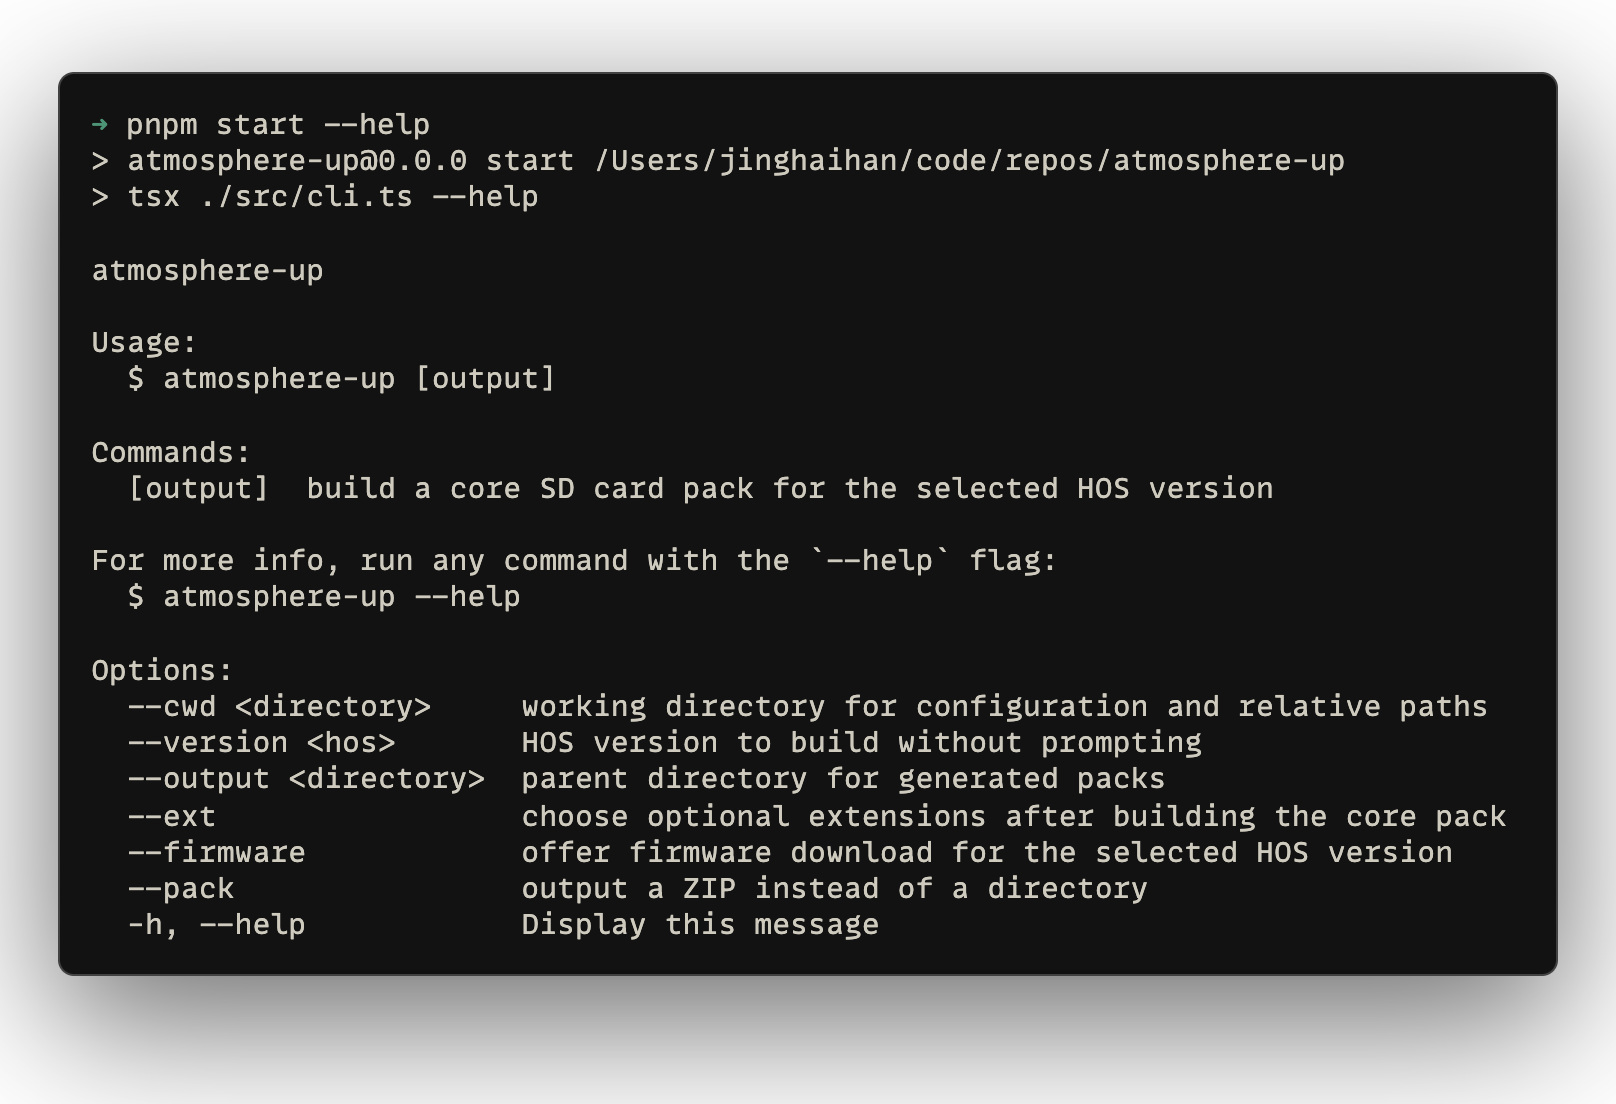
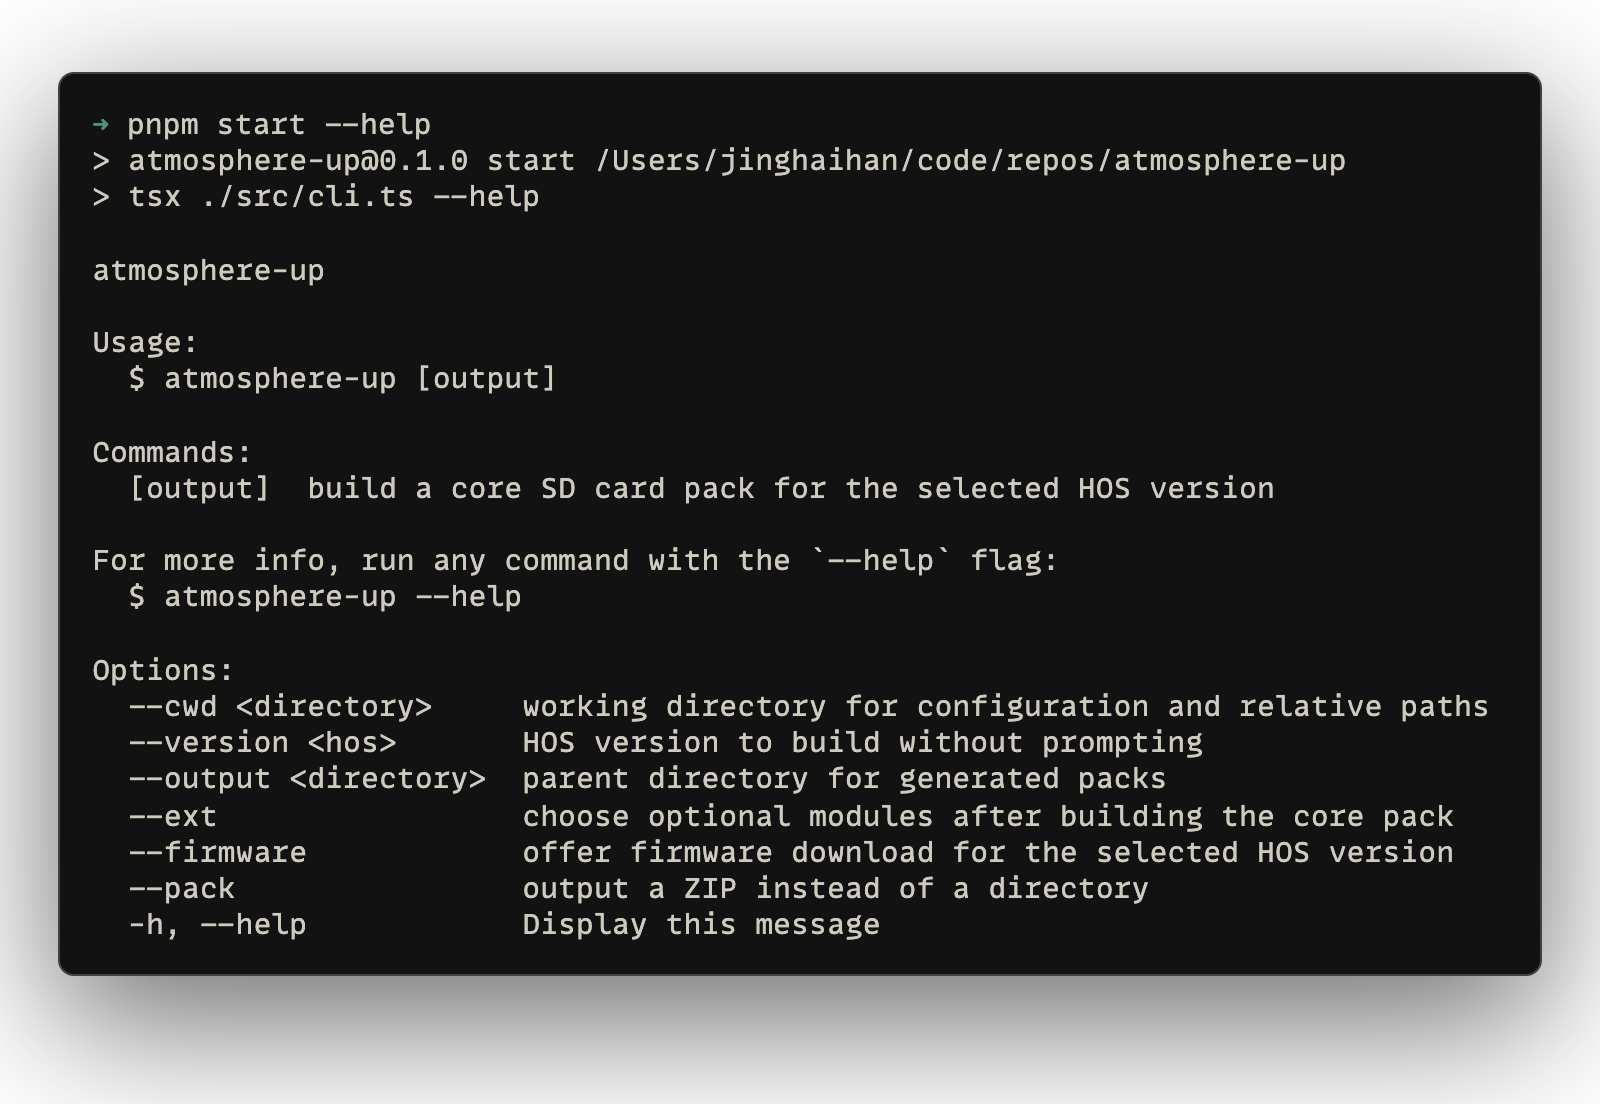
docs: unify core and optional module terminology

diff --git a/src/commands/build.ts b/src/commands/build.ts
@@ -76,7 +76,7 @@ export async function runBuildCommand(options: CommandOptions): Promise<void> {
       pack: config.pack,
       onCoreReady: config.ext
         ? async () => {
-          spinner.stop(c.green('core pack assembled'))
+          spinner.stop(c.green('core modules assembled'))
 
           const selection = await promptExtensions(controller)
 
@@ -93,7 +93,7 @@ export async function runBuildCommand(options: CommandOptions): Promise<void> {
         : undefined,
       onExtensionsReady: config.firmware
         ? async () => {
-          spinner.stop(c.green('components assembled'))
+          spinner.stop(c.green(config.ext ? 'optional modules assembled' : 'core modules assembled'))
 
           const enabled = await promptFirmware(controller, bundle.labels.hos)
 

diff --git a/test/commands/build.test.ts b/test/commands/build.test.ts
@@ -226,7 +226,7 @@ describe('runBuildCommand', () => {
 
     expect(p.confirm).not.toHaveBeenCalled()
     expect(vi.mocked(p.multiselect).mock.calls[0][0]).toMatchObject({
-      message: 'select extension categories',
+      message: 'select optional module categories',
       required: false,
       initialValues: ['save-management', 'file-management', 'cheats'],
       options: [
@@ -246,7 +246,7 @@ describe('runBuildCommand', () => {
     }))).sort((a, b) => a.order - b.order).map(call => call.message)
     expect(messages).toEqual([
       'select HOS version',
-      'select extension categories',
+      'select optional module categories',
       'select save manager',
       'select file manager',
       'select cheat tools',

diff --git a/src/cli.ts b/src/cli.ts
@@ -18,7 +18,7 @@ try {
     .option('--cwd <directory>', 'working directory for configuration and relative paths')
     .option('--version <hos>', 'HOS version to build without prompting')
     .option('--output <directory>', 'parent directory for generated packs')
-    .option('--ext', 'choose optional extensions after building the core pack')
+    .option('--ext', 'choose optional modules after building the core pack')
     .option('--firmware', 'offer firmware download for the selected HOS version')
     .option('--pack', 'output a ZIP instead of a directory')
     .action((output: string | undefined, options: CommandOptions) => {

diff --git a/src/extensions/index.ts b/src/extensions/index.ts
@@ -93,7 +93,7 @@ const extensions = [
 
 export async function promptExtensions(controller: AbortController): Promise<ExtensionSelection> {
   const categories = await p.multiselect({
-    message: 'select extension categories',
+    message: 'select optional module categories',
     options: extensions.map(({ value, label }) => ({ value, label })),
     initialValues: extensions.filter(extension => extension.initialSelected).map(extension => extension.value),
     required: false,

diff --git a/AGENTS.md b/AGENTS.md
@@ -7,7 +7,10 @@ version. Use pnpm and follow the installed dependencies and existing modules.
 
 - Use English for repository content, including prompts, comments, and commits.
 - Start custom prompt messages with lowercase letters. Keep Clack's built-in
-  labels unchanged and preserve component branding in option labels.
+  labels unchanged and preserve module branding in option labels.
+- User-facing copy uses `core modules` for required contents, `optional modules`
+  for selectable additions, `categories` for feature groups, and `pack` for the
+  assembled output.
 - README describes features, sources, and useful defaults. Put maintenance and
   implementation details in this file or the relevant skill.
 
@@ -18,7 +21,7 @@ version. Use pnpm and follow the installed dependencies and existing modules.
 | `src/cli.ts`, `src/config.ts`, `src/types.ts` | CAC options and unconfig configuration |
 | `src/commands/build.ts` | User interaction and build lifecycle |
 | `src/core/` | Bundle catalog, release resolution, installation, and output |
-| `src/extensions/index.ts` | Ordered extension categories, prompts, and resolvers |
+| `src/extensions/index.ts` | Ordered optional module categories, prompts, and resolvers |
 | `src/extensions/*.ts` | One feature category per module; prompts and resolvers return arrays |
 | `src/firmware.ts` | Optional firmware for the exact selected HOS version |
 | `src/download/` | GitHub authentication, releases, and downloads |
@@ -26,7 +29,7 @@ version. Use pnpm and follow the installed dependencies and existing modules.
 | `src/utils.ts` | Reusable or complex pure helpers |
 | `assets/sigpatches/` | Prepared patch ZIPs, HOS/Atmosphere manifest, and provenance |
 | `assets/mission-control/versions.json` | HOS to exact Mission Control release tag |
-| `assets/defaults/` | Files copied into every pack after extracting core components |
+| `assets/defaults/` | Files copied into every pack after extracting core modules |
 
 ## Build behavior to preserve
 
@@ -35,9 +38,9 @@ version. Use pnpm and follow the installed dependencies and existing modules.
   releases. Mission Control uses its HOS mapping. Horizon OC checks its release's
   `ams_ver.txt` against the selected Atmosphere version.
 - Check the destination and confirm replacement before downloads. Assemble core,
-  select and install extensions, optionally download firmware, then write the
+  select and install optional modules, optionally download firmware, then write the
   manifest and finalize directory or ZIP output.
-- Extension categories stay in this order: save management, file management,
+- Optional module categories stay in this order: save management, file management,
   cheats, performance tuning, performance monitoring, controller support,
   streaming, Amiibo. Default categories are save management, file management,
   and cheats. Ask for tools only in selected categories.
@@ -47,7 +50,7 @@ version. Use pnpm and follow the installed dependencies and existing modules.
   start at the SD card root. The repository config sets the parent to `./output`.
 - Use staging and the existing AbortSignal flow. Cancellation removes temporary
   files; preserve an existing output until the replacement has been assembled.
-- Keep shared extension dependencies deduplicated. An enhanced Sys Clk overlay
+- Keep shared optional module dependencies deduplicated. An enhanced Sys Clk overlay
   replaces the original overlay while preserving the required service/manager.
 - Keep overlay memory at 8 MiB and the hotkey at L + D-pad Down. Cheats default
   off without remembered toggles. Other shipped configuration lives in

diff --git a/README.md b/README.md
@@ -18,9 +18,9 @@ RCM, Ovl Sysmodules, sys-patch, and Ultrahand use their latest releases.
 <img src='./help.png' alt="help" />
 </p>
 
-### Core components
+### Core modules
 
-| Component | Source | Includes |
+| Module | Source | Includes |
 | --- | --- | --- |
 | Atmosphere | [Atmosphere-NX/Atmosphere](https://github.com/Atmosphere-NX/Atmosphere) | Atmosphere, fusee, Daybreak, hbmenu, hbloader, and other upstream tools |
 | Hekate | [CTCaer/hekate](https://github.com/CTCaer/hekate) | Bootloader with CFW emuMMC, CFW sysMMC, and stock sysMMC boot entries |
@@ -32,20 +32,20 @@ RCM, Ovl Sysmodules, sys-patch, and Ultrahand use their latest releases.
 | Sigpatches | [Supported versions](./assets/sigpatches/README.md) | Patches for the selected HOS and Atmosphere versions |
 
 Reboot to Payload returns to Hekate. Each pack includes a manifest listing its
-component versions.
+module versions.
 
 Ultrahand opens with **L + D-pad Down**.
 
-### Optional extensions
+### Optional modules
 
-Extensions are enabled by default. Use `--no-ext` to skip extension prompts,
-or `--ext` to enable them.
+Optional module selection is enabled by default. Use `--no-ext` to skip it,
+or `--ext` to enable it.
 
-After assembling the core components, choose extension categories. Save management,
+After assembling the core modules, choose optional module categories. Save management,
 file management, and cheats are selected by default. Only selected categories
 show their tool selection prompts; all categories can be deselected.
 
-| Component | Source | Includes |
+| Module | Source | Includes |
 | --- | --- | --- |
 | JKSV | [J-D-K/JKSV](https://github.com/J-D-K/JKSV) | Save backup and restore; default save manager selection |
 | Checkpoint | [BernardoGiordano/Checkpoint](https://github.com/BernardoGiordano/Checkpoint) | Save backup and restore |
@@ -81,18 +81,18 @@ Horizon OC or Sys Clk Overlay Ultrahand for clock controls in that configuration
 
 Mission Control matches the selected HOS version. Sys Con uses its latest release.
 
-Selected extensions are included in both directory and ZIP output.
+Selected optional modules are included in both directory and ZIP output.
 
 ### Firmware updates
 
-After installing the core components and selected extensions, the CLI offers to
+After installing the core modules and selected optional modules, the CLI offers to
 download firmware for the selected HOS version from
 [THZoria/NX_Firmware](https://github.com/THZoria/NX_Firmware).
 
 Firmware is extracted to `firmware/<HOS version>/` in the generated pack for
 installation with Daybreak. It is included in both directory and ZIP output.
 Use `--no-firmware` to skip the prompt and download, or `--firmware` to enable them.
-Firmware downloads remain available when extensions are disabled with `--no-ext`.
+Firmware downloads remain available when optional modules are disabled with `--no-ext`.
 
 ### Pack defaults
 

diff --git a/.agents/skills/atmosphere-up-version-update/SKILL.md b/.agents/skills/atmosphere-up-version-update/SKILL.md
@@ -118,15 +118,15 @@ Sys Con currently uses latest and has no maintained version table.
 
 - In [THZoria/NX_Firmware](https://github.com/THZoria/NX_Firmware/releases), confirm
   the exact HOS tag and its `Firmware.<HOS>.zip` asset. The CLI offers this after
-  core and extensions, unless `--no-firmware` was supplied. Keep the exact-version
+  core and optional modules, unless `--no-firmware` was supplied. Keep the exact-version
   lookup and `firmware/<HOS>/` output; no latest fallback or firmware vendoring.
 - Check relevant Hekate, sys-patch, and loader release notes for the new target.
   They currently use latest; update selection code only if an actual upstream
   asset or compatibility change requires it.
 - Horizon OC compares its latest release's `ams_ver.txt` with the chosen
-  Atmosphere version. Report a mismatch as an optional-extension limitation;
+  Atmosphere version. Report a mismatch as an optional module limitation;
   preserve the check rather than weakening it to make a build succeed.
-- Other extensions use latest unless their resolver says otherwise. Distinguish
+- Other optional modules use latest unless their resolver says otherwise. Distinguish
   a published compatibility statement from an actual hardware test.
 
 A missing exact firmware release is a limitation of the optional firmware step.
@@ -145,11 +145,11 @@ in a temporary destination: the prepared archives, Mission Control JSON, and
 defaults must be included through the package's `assets` entry.
 
 An end-to-end download run is useful when downloads or installation changed;
-use the requested HOS and relevant extensions. Metadata and archive checks are
+use the requested HOS and relevant optional modules. Metadata and archive checks are
 sufficient for an ordinary version-data update unless hardware verification was
 requested. Never describe those checks as console testing.
 
 Summarize the HOS/Atmosphere pair, patch provenance, Mission Control tag, firmware
-availability, and any optional-extension limitations. Commit and push according
+availability, and any optional module limitations. Commit and push according
 to the user's current authorization; npm publishing is a separate action. Do not
 wait for CI after pushing.
